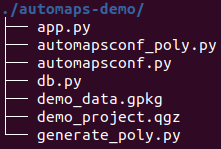
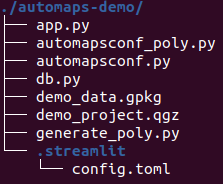
Improve getting started docs

diff --git a/docs/getting_started.md b/docs/getting_started.md
@@ -1,13 +1,20 @@
 # Getting Started with autoMaps
 
+Work through this tutorial to get your feets wet with autoMaps. 
+
+For further details on using autoMaps, please refer to the [User Guide](user_guide.md).
+
 ## Installation
 !!! warning
 
     Only tested on Ubuntu 20.04!
 
-autoMaps uses QGIS to generate maps. Get it on the 
+autoMaps uses [QGIS](https://qgis.org/), a free and open source geographic information
+system, to generate maps. Get it on the 
 [QGIS downloads page](https://qgis.org/en/site/forusers/download.html) and install it
-first.
+first. You probably should be familiar with QGIS and at least a little bit of `PyQGIS`
+to get most out of autoMaps. Check out the
+[QGIS documentation](https://qgis.org/en/docs/index.html), if necessary.
 
 Then open your command line and clone the autoMaps repository:
 ```bash
@@ -25,7 +32,7 @@ python3 -m pip install .
 ```
 
 ## Creating a demo project
-Do get a feeling for the functionality and configuration of autoMaps you should first
+To get a feeling for the functionality and configuration of autoMaps you should first
 create a demo project.
 
 On the command line, `cd` into a directory where you want to place the demo project.
@@ -88,6 +95,17 @@ map creation process, it is updated to hold the selected value of the drop down 
 called `District name`.
 * Another label holding the data source information. This is just some static text.
 
+### The streamlit configuration (`./streamlit/config.toml`)
+autoMaps uses [Streamlit](https://streamlit.io/) as its frontend. Streamlit can be
+configured using the `config.toml` file, as described in the 
+[docs](https://docs.streamlit.io/library/advanced-features/configuration). In the case 
+of our demo project, it looks like this:
+``` ini
+[server]
+port = 8506
+baseUrlPath = "automaps-demo"
+``` 
+
 ### The main entry point (`app.py`)
 The `app.py` file serves as the canonical entry point for running an autoMaps project.
 
@@ -98,6 +116,7 @@ from automaps.app import AutoMaps
 
 app = AutoMaps()
 ```
+
 
 ### The main configuration (`automapsconf.py`, `automapsconf_poly.py`, `db.py`)
 The main configuration is defined in a Python file, which typically is called 
@@ -253,6 +272,13 @@ of the `districts` layer.
 or SVG). It also writes the specific QGIS project file to the defined location, which
 can be handy for debugging your own autoMaps projects. Take a look at `poly_out.qgz` in
 QGIS, inspect the filter expressions and the `poly` print layout!
+
+The step methods use various helper methods, inherited from the `MapGenerator` base 
+class, such as `_set_map_layer_visibility()` or `_export_print_layout()`. Take a look
+at the [`User Guide`](user_guide.md#the-mapgenerator-class) for a list of these helper
+methods. You don't have to use them in your own projects, you could directly go for
+the respective `PyQGIS`-calls instead. But they save you a lof of typing for the most
+common tasks.
 
 After running through all processing steps, the download button shows up on the 
 frontend and the map is ready to be used.

diff --git a/docs/index.md b/docs/index.md
@@ -1,22 +1,24 @@
 # Welcome to autoMaps
-Automatically generate cusomized and ready to print maps 
+Automatically generate customized and ready to print maps 
 
 ---
 
-With autoMaps, you can 
+With autoMaps, you can:
 
-* prepare your map layouts in QGIS and 
-* let your users define map parameters in a Streamlit web frontend 
-* to receive beautiful, ready to print maps as PDFs or in other file formats. 
+* prepare your map layouts in QGIS
+* let your users define map parameters in a nice web frontend
+* receive beautiful, ready to print maps as PDFs or in other file formats
+
+__Give your domain experts the power to create maps like a GIS pro!__
 
 Start by reading the 
-[getting started tutorial](getting_started.md), then check the 
+[Getting started tutorial](getting_started.md), then check the 
 [User Guide](user_guide.md) for more details.
 
 ---
 
 # Features
-## Pre-define your map layouts, let your users define the map parameters
+## Pre-define your map layouts, let your users set the map parameters
+## Use the power of a GIS, serve the maps over the web
 ## Easy to configure
 ## Builds on reliable open source projects
-QGIS, Streamlit, 0MQ
